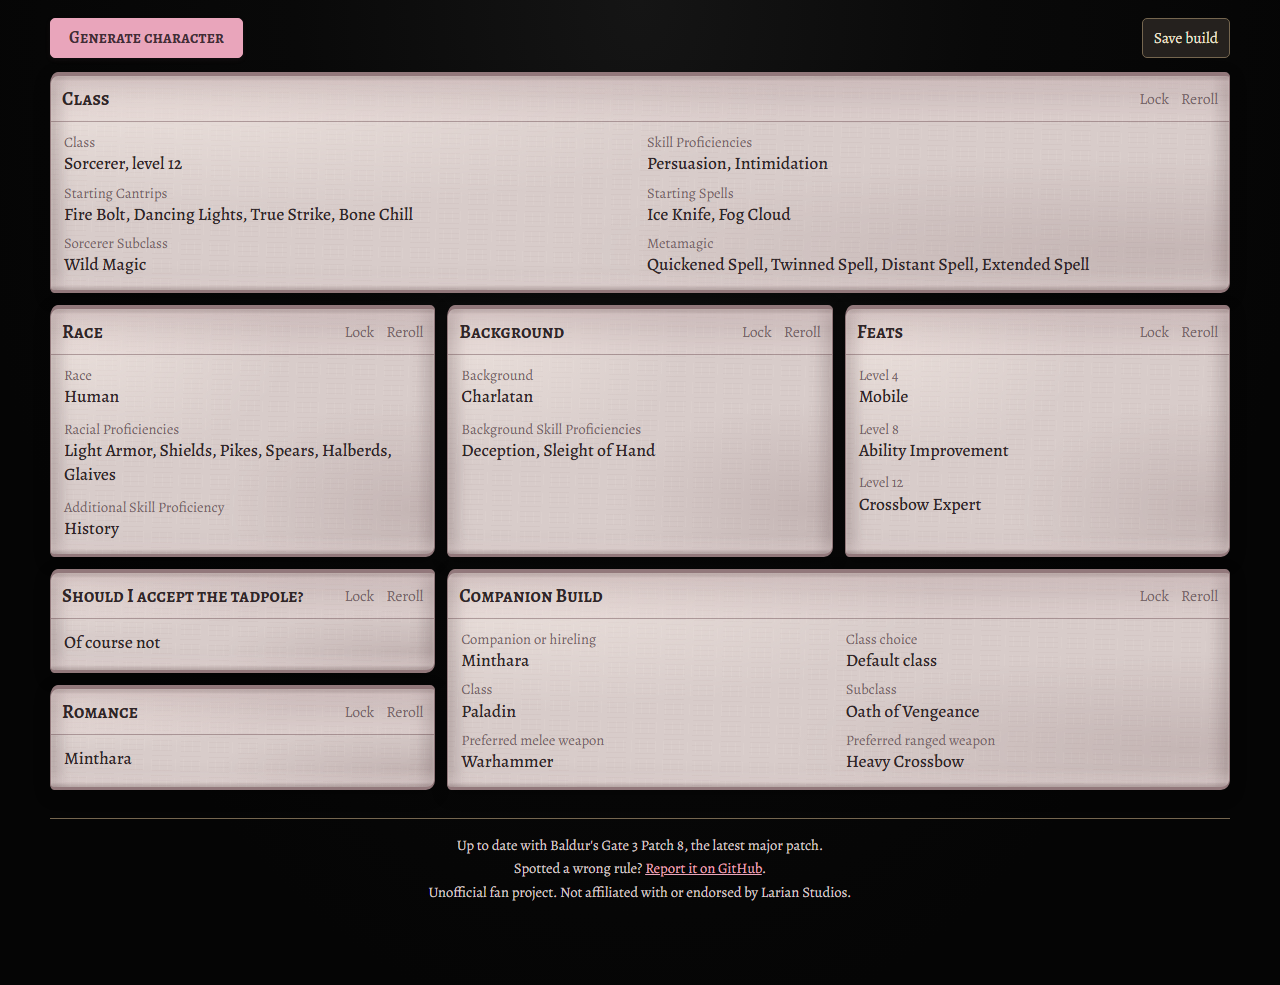
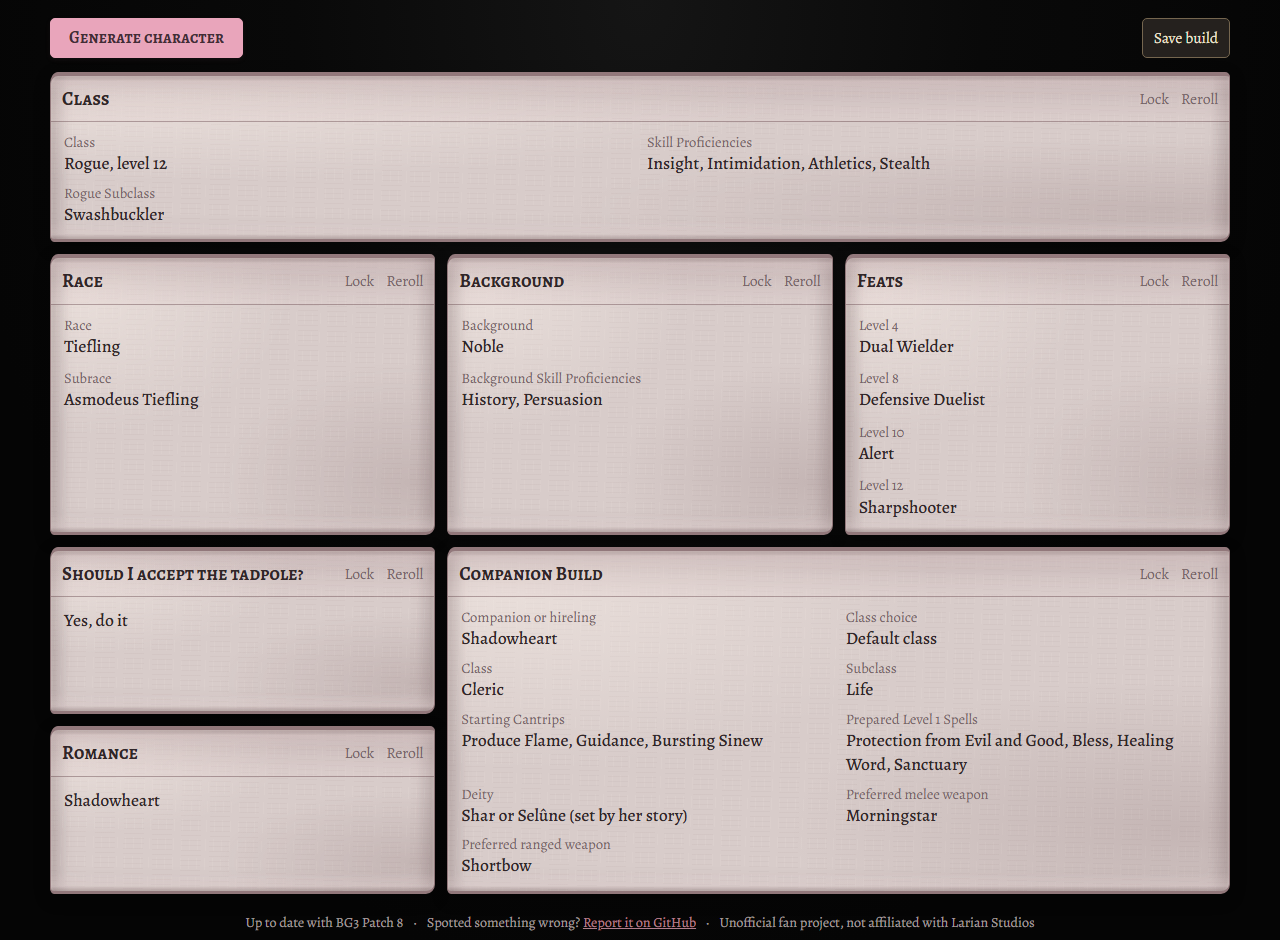
Compact the footer onto one line on wide screens

Changed region(s): [[0.0312, 0.0309, 0.9688, 0.9872]]

diff --git a/styles.css b/styles.css
@@ -67,15 +67,28 @@ main {
 /* Footer */
 
 .site-footer {
-  margin-top: 28px;
-  padding-top: 14px;
-  border-top: 1px solid var(--control-border);
+  display: flex;
+  flex-wrap: wrap;
+  justify-content: center;
+  gap: 2px 0;
+  margin-top: 18px;
   color: var(--page-ink);
-  font-size: 14.5px;
+  opacity: .75;
+  font-size: 14px;
   text-align: center;
 }
 
-.site-footer p { margin: 2px 0; }
+.site-footer p { margin: 0; }
+
+.site-footer p + p::before {
+  content: "·";
+  margin: 0 10px;
+}
+
+@media (max-width: 760px) {
+  .site-footer { flex-direction: column; }
+  .site-footer p + p::before { content: none; }
+}
 
 .site-footer a { color: var(--accent); }
 .site-footer a:hover { color: var(--accent-hover); }

diff --git a/index.html b/index.html
@@ -28,9 +28,9 @@
   <section class="cards" id="cards" aria-live="polite"></section>
 
   <footer class="site-footer">
-    <p>Up to date with Baldur's Gate 3 Patch 8, the latest major patch.</p>
-    <p>Spotted something wrong? <a href="https://github.com/TheFallZ/BG3CharacterGenerator/issues">Report it on GitHub</a>.</p>
-    <p>Unofficial fan project. Not affiliated with or endorsed by Larian Studios.</p>
+    <p>Up to date with BG3 Patch 8</p>
+    <p>Spotted something wrong? <a href="https://github.com/TheFallZ/BG3CharacterGenerator/issues">Report it on GitHub</a></p>
+    <p>Unofficial fan project, not affiliated with Larian Studios</p>
   </footer>
 
 </main>
